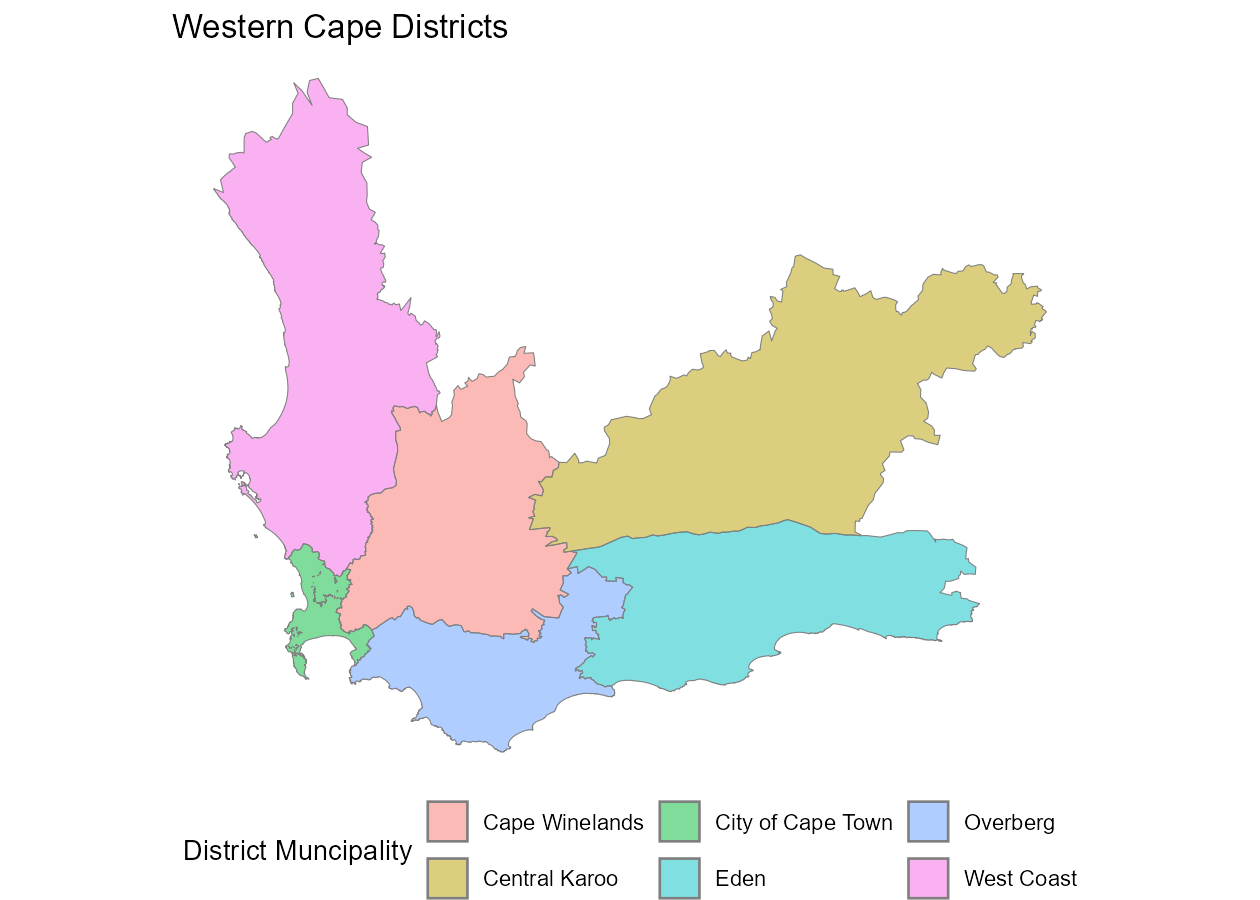
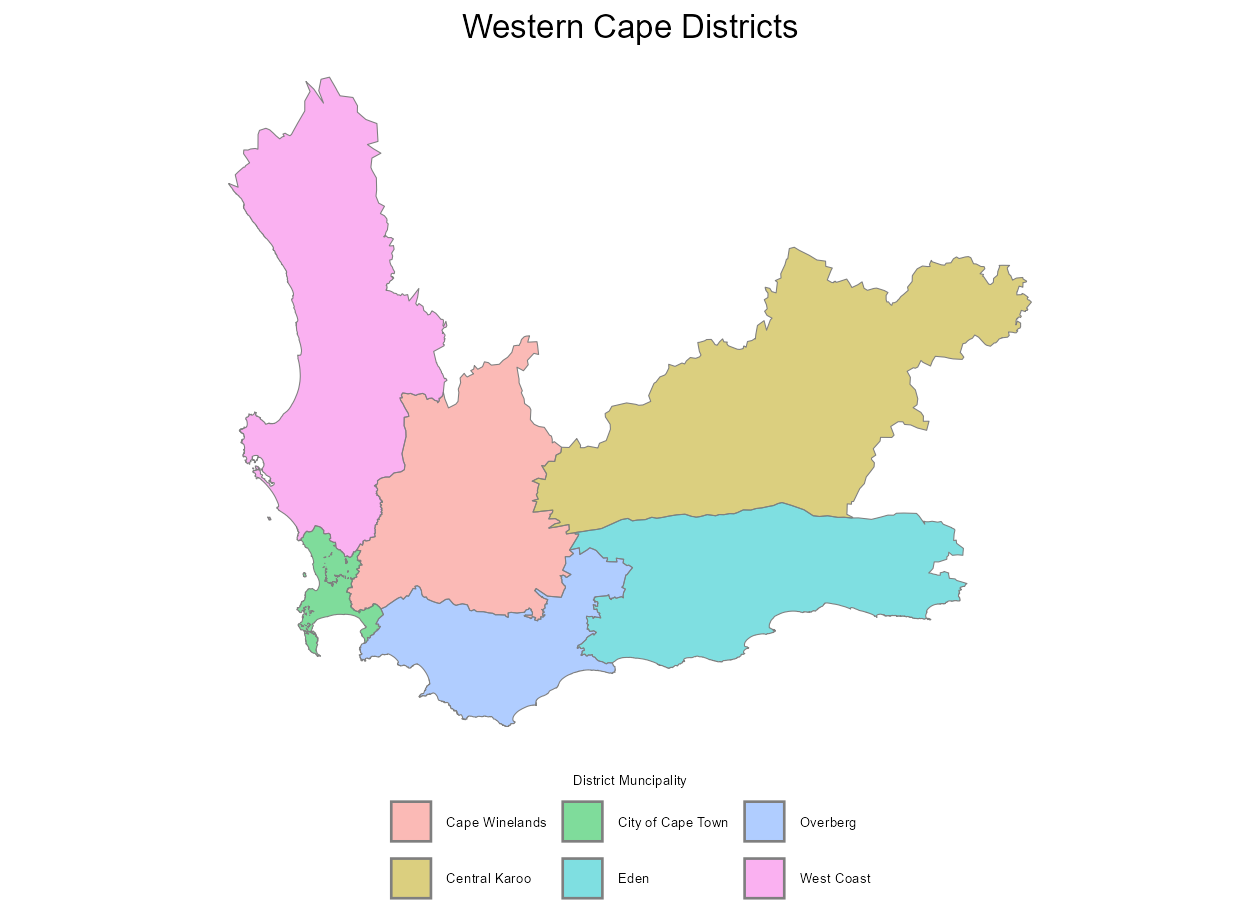
Update README with improved plotting aesthetics
- Adjusted ggplot theme settings for better title and legend
  formatting in the plotting section.
- Added a new plot for the `provinces` object to visualize
  provincial boundaries.
- Included a section on ensuring consistent CRS for datacentres
  and provinces before plotting.

diff --git a/README.md b/README.md
@@ -57,14 +57,14 @@ after loading the `subplaces` dataset.
 lobstr::mem_used()
 ```
 
-    #> 66.00 MB
+    #> 73.27 MB
 
 ``` r
 invisible(subplaces)
 lobstr::mem_used()
 ```
 
-    #> 109.39 MB
+    #> 116.64 MB
 
 `subplaces` is structured hierarchically:
 
@@ -106,8 +106,12 @@ Maintain consistently formatted figures by setting default themes:
 theme_set(
   theme_void() +
     theme(
+      plot.title = element_text(hjust = 0.5),
       legend.position = "bottom",
-      legend.box = "vertical"
+      legend.box = "vertical",
+      legend.text = element_text(size = rel(0.5)),
+      legend.title.position = "top",
+      legend.title = element_text(size = rel(0.5), hjust = 0.5)
     )
 )
 
@@ -364,6 +368,79 @@ tictoc::toc()
 
     #> st_union: 47.88 sec elapsed
 
+The resulting `provinces` object (in this case from `ms_dissolve`)
+entails only the names and geometries for each province, and looks like
+this:
+
+``` r
+ggplot() +
+  geom_sf(
+    data = provinces,
+    aes(color = province_name),
+    fill = "white",
+    linewidth = 1,
+    show.legend = FALSE
+  )
+```
+
+<img src="man/figures/readme/provinces-plot-1.png" width="100%" style="display: block; margin: auto;" />
+
+### Plotting Datacentres
+
+Now that we have the provincial backdrop, we’re able to plot the
+datacentres. Fortunately, in this case, it wasn’t really necessary to
+transform the coordinate reference systems (CRS) of either `datacentres`
+or `provinces`. However, for completeness, we can ensure their
+consistency:
+
+``` r
+datacentres <- st_transform(
+  x = datacentres,
+  crs = st_crs(provinces)
+)
+```
+
+`ggplot2` and `geom_sf` deals with the distinct objects’ bounding boxes
+and aspect ratios, and the resulting plot passes the smell test. If we
+intend on hardcoding figure dimensions, we should remember to determine
+the appropriate dimensions for our new plot. As `provinces` is the
+larger of the two, and `datacentres` is entirely contained within the
+former, we’ll only need the aspect ratio of `provinces`.
+
+``` r
+plot_asp <- get_asp(provinces, 6)
+```
+
+Using the values in `plot_asp`, we can set `fig.height` and `fig.width`
+in the next code chunk. However, introducing additional plot elements
+like titles and legends would obviously impact the optimal aspect ratio
+of the output, but one can use `get_asp` as a starting point and
+incrementally revise from there. Here is the result of all our hard
+work:
+
+``` r
+datacentres %>%
+  ggplot() +
+  geom_sf(
+    # plot's CRS defaults to first layer
+    data = provinces,
+    fill = NA,
+  ) +
+  geom_sf(
+    aes(color = company),
+    data = datacentres,
+    size = 10,
+    alpha = 0.2
+  ) +
+  labs(
+    title = "Open Access Datacentres in South Africa",
+    color = "Company"
+  ) +
+  guides(colour = guide_legend(override.aes = list(size = 5)))
+```
+
+<img src="man/figures/readme/datacentres-plot-1.png" width="100%" style="display: block; margin: auto;" />
+
 # Acknowledgements
 
 - Demarcations used by the 2011 Census are detailed in the
@@ -412,16 +489,14 @@ sessionInfo()
     #> 
     #> loaded via a namespace (and not attached):
     #>  [1] s2_1.1.8           generics_0.1.4     class_7.3-23       KernSmooth_2.23-26
-    #>  [5] lattice_0.22-7     stringi_1.8.7      digest_0.6.37      magrittr_2.0.3    
-    #>  [9] evaluate_1.0.3     grid_4.5.0         timechange_0.3.0   RColorBrewer_1.1-3
-    #> [13] fastmap_1.2.0      jsonlite_2.0.0     e1071_1.7-16       DBI_1.2.3         
-    #> [17] purrr_1.0.4        scales_1.4.0       rmapshaper_0.5.0   codetools_0.2-20  
-    #> [21] textshaping_1.0.1  cli_3.6.5          rlang_1.1.6        units_0.8-7       
-    #> [25] withr_3.0.2        yaml_2.3.10        tools_4.5.0        geojsonsf_2.0.3   
-    #> [29] curl_6.2.2         vctrs_0.6.5        R6_2.6.1           proxy_0.4-27      
-    #> [33] lifecycle_1.0.4    lubridate_1.9.4    classInt_0.4-11    snakecase_0.11.1  
-    #> [37] stringr_1.5.1      V8_6.0.3           pkgconfig_2.0.3    pillar_1.10.2     
-    #> [41] gtable_0.3.6       glue_1.8.0         Rcpp_1.0.14        systemfonts_1.2.3 
-    #> [45] xfun_0.52          tibble_3.2.1       tidyselect_1.2.1   knitr_1.50        
-    #> [49] farver_2.1.2       htmltools_0.5.8.1  rmarkdown_2.29     wk_0.9.4          
-    #> [53] compiler_4.5.0     sp_2.2-0
+    #>  [5] stringi_1.8.7      digest_0.6.37      magrittr_2.0.3     evaluate_1.0.3    
+    #>  [9] grid_4.5.0         timechange_0.3.0   RColorBrewer_1.1-3 fastmap_1.2.0     
+    #> [13] e1071_1.7-16       DBI_1.2.3          purrr_1.0.4        scales_1.4.0      
+    #> [17] codetools_0.2-20   textshaping_1.0.1  cli_3.6.5          rlang_1.1.6       
+    #> [21] units_0.8-7        withr_3.0.2        yaml_2.3.10        tools_4.5.0       
+    #> [25] vctrs_0.6.5        R6_2.6.1           proxy_0.4-27       lifecycle_1.0.4   
+    #> [29] lubridate_1.9.4    classInt_0.4-11    snakecase_0.11.1   stringr_1.5.1     
+    #> [33] pkgconfig_2.0.3    pillar_1.10.2      gtable_0.3.6       glue_1.8.0        
+    #> [37] Rcpp_1.0.14        systemfonts_1.2.3  xfun_0.52          tibble_3.2.1      
+    #> [41] tidyselect_1.2.1   knitr_1.50         farver_2.1.2       htmltools_0.5.8.1 
+    #> [45] rmarkdown_2.29     wk_0.9.4           compiler_4.5.0
